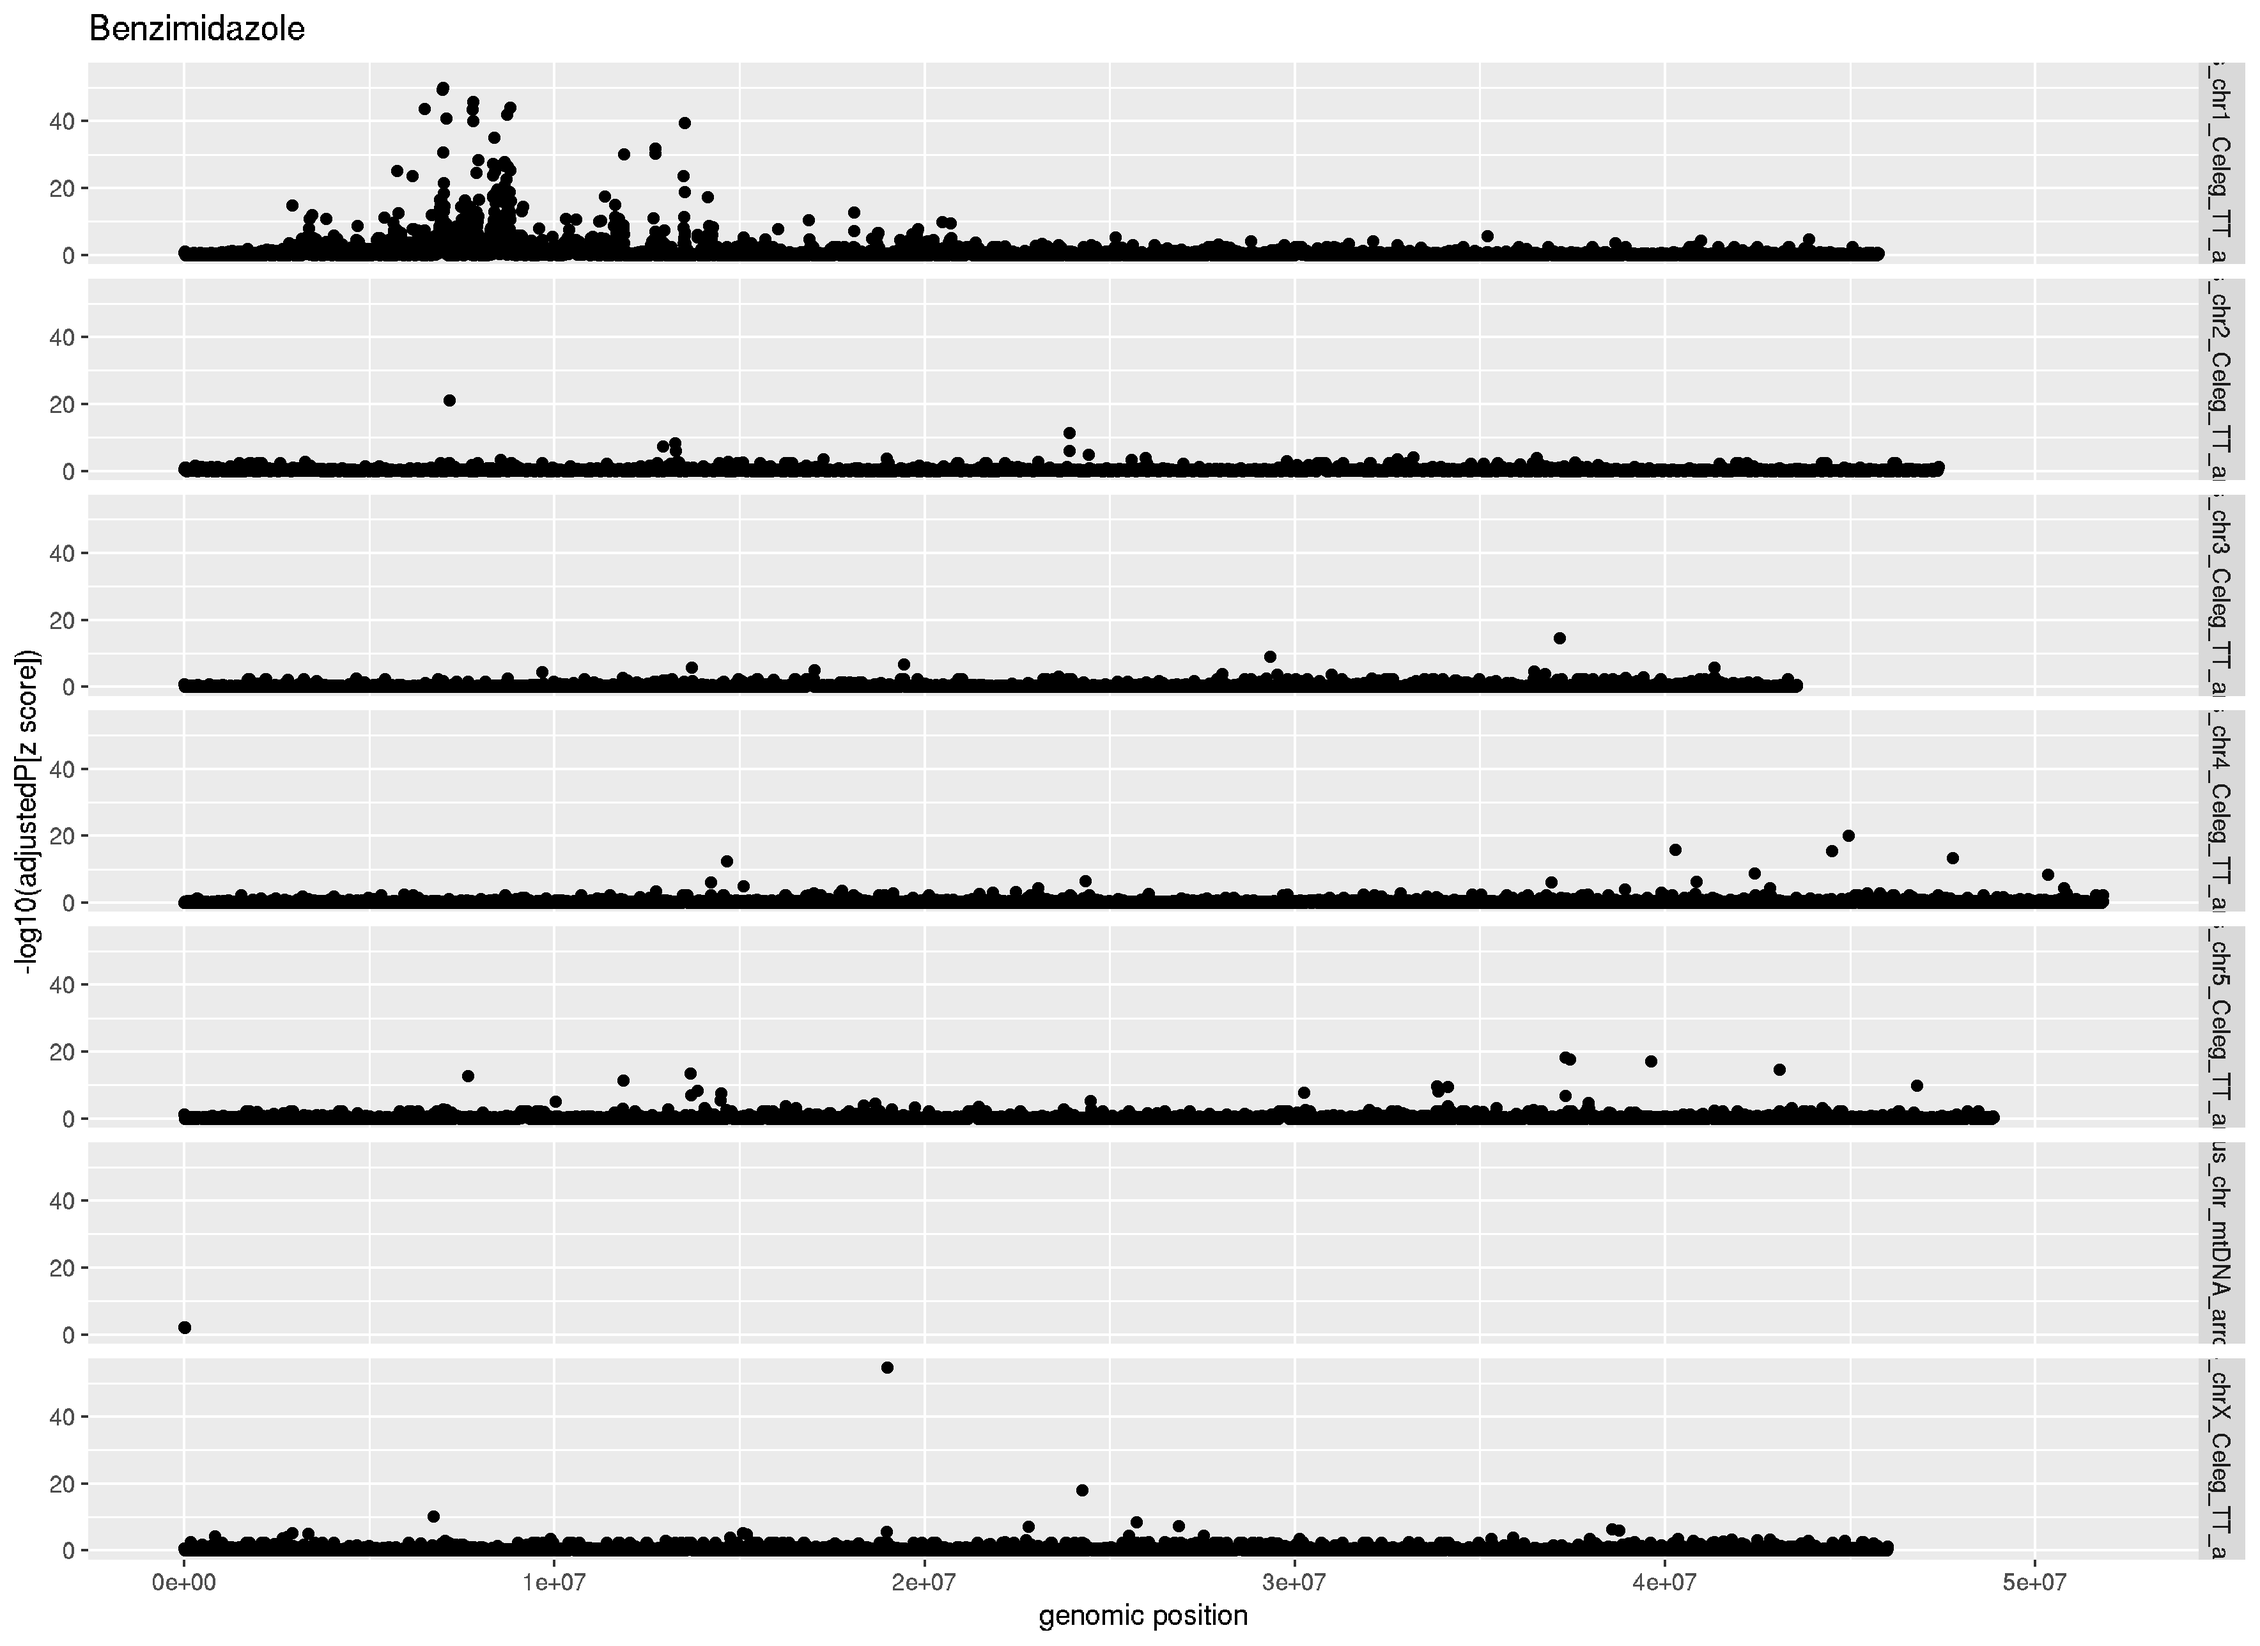
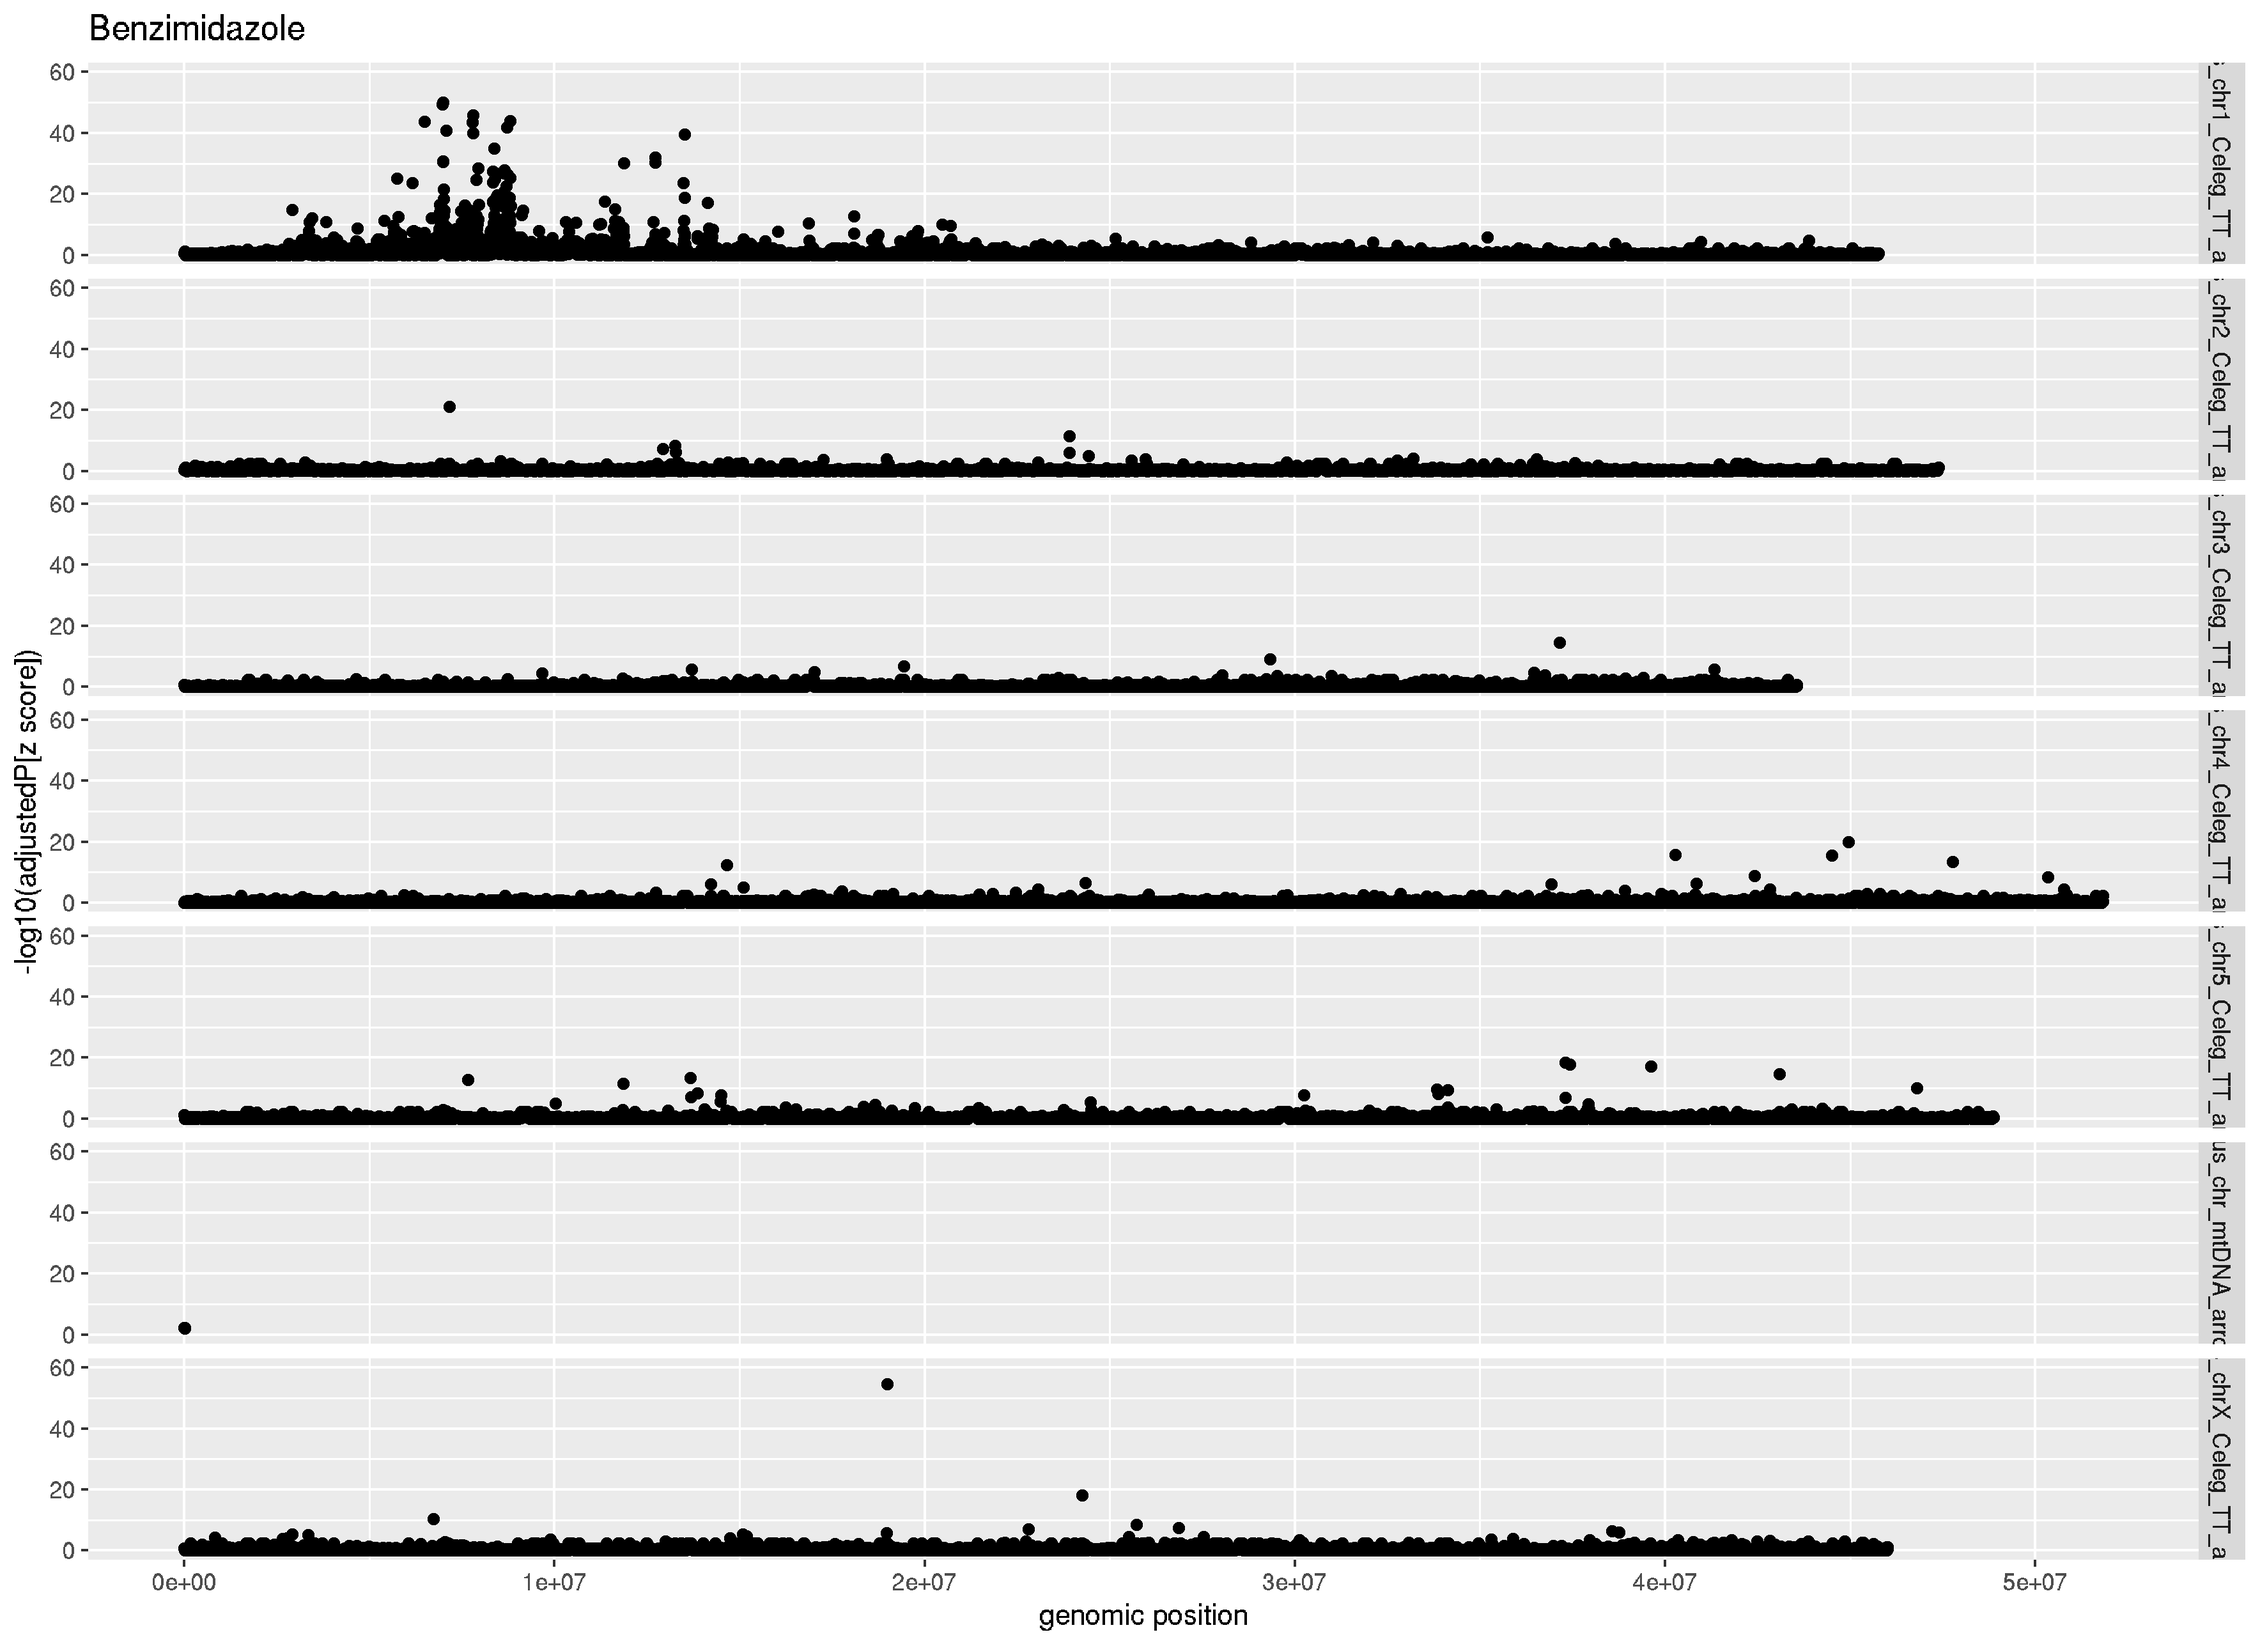
update

Changed region(s): [[0.1867, 0.0621, 0.2489, 0.1243], [0.28, 0.0932, 0.3111, 0.1243]]

diff --git a/03_code/hcontrotus_xqtl_fdr.md b/03_code/hcontrotus_xqtl_fdr.md
@@ -187,6 +187,8 @@ ggsave("xqtl_multi_qq.png")
 
 ```R
 # calculate zscores
+control2 <- control %>% mutate(zscore = (V13 - mean(V13))/sd(V13))
+
 bz2 <- bz %>% mutate(zscore = (V13 - mean(V13))/sd(V13))
 
 lev2 <- lev %>% mutate(zscore = (V13 - mean(V13))/sd(V13))
@@ -195,6 +197,8 @@ ivm2 <- ivm %>% mutate(zscore = (V13 - mean(V13))/sd(V13))
 
 
 # zscore to pvalue
+control2$pnorm <- 2*pnorm(-abs(control2$zscore))
+
 bz2$pnorm <- 2*pnorm(-abs(bz2$zscore))
 
 lev2$pnorm <- 2*pnorm(-abs(lev2$zscore))
@@ -204,6 +208,8 @@ ivm2$pnorm <- 2*pnorm(-abs(ivm2$zscore))
 
 
 # adjusted pvalue - FDR
+control2$padjust <- p.adjust(control2$pnorm,method="fdr")
+
 bz2$padjust <- p.adjust(bz2$pnorm,method="fdr")
 
 lev2$padjust <- p.adjust(lev2$pnorm,method="fdr")
@@ -212,12 +218,13 @@ ivm2$padjust <- p.adjust(ivm2$pnorm,method="fdr")
 
 
 # plot it
-
-ggplot(bz2,aes(V2,-log10(pnorm)))+geom_point()+facet_grid(V1~.)+labs(title="Benzimidazole", y="-log10(adjustedP[z score])", x= "genomic position")
+ggplot(control2,aes(V2,-log10(pnorm)))+geom_point()+facet_grid(V1~.)+ylim(0,60)+labs(title="Control", y="-log10(adjustedP[z score])", x= "genomic position")
+ggsave("xqtl_control_Fst_adjustedP.png")
+ggplot(bz2,aes(V2,-log10(pnorm)))+geom_point()+facet_grid(V1~.)+ylim(0,60)+labs(title="Benzimidazole", y="-log10(adjustedP[z score])", x= "genomic position")
 ggsave("xqtl_bz_Fst_adjustedP.png")
 ggplot(lev2,aes(V2,-log10(pnorm)))+geom_point()+facet_grid(V1~.)+ylim(0,60)+labs(title="Levamisole", y="-log10(adjustedP[z score])", x= "genomic position")
 ggsave("xqtl_lev_Fst_adjustedP.png")
-ggplot(ivm2,aes(V2,-log10(pnorm)))+geom_point()+facet_grid(V1~.)+labs(title="Ivermectin", y="-log10(adjustedP[z score])", x= "genomic position")
+ggplot(ivm2,aes(V2,-log10(pnorm)))+geom_point()+facet_grid(V1~.)+ylim(0,60)+labs(title="Ivermectin", y="-log10(adjustedP[z score])", x= "genomic position")
 ggsave("xqtl_ivm_Fst_adjustedP.png")
 ```
 
@@ -227,7 +234,7 @@ ggsave("xqtl_ivm_Fst_adjustedP.png")
 
 
 
-
+```
 
 apply(bz,1, function(x) { sum(control$V13 >= x['V13']) / length(control$V13) } )
 with(bz, sum(control$V13 >= bz$V13)/length(control$V13))
@@ -306,3 +313,4 @@ myDF <- data.frame(pvalue = row.names(data), data)
 
 
 ggplot(myDF,aes(count,-log10(as.numeric(V1)),col=pvalue,group=pvalue))+geom_point()+facet_grid(pvalue~.)
+```
